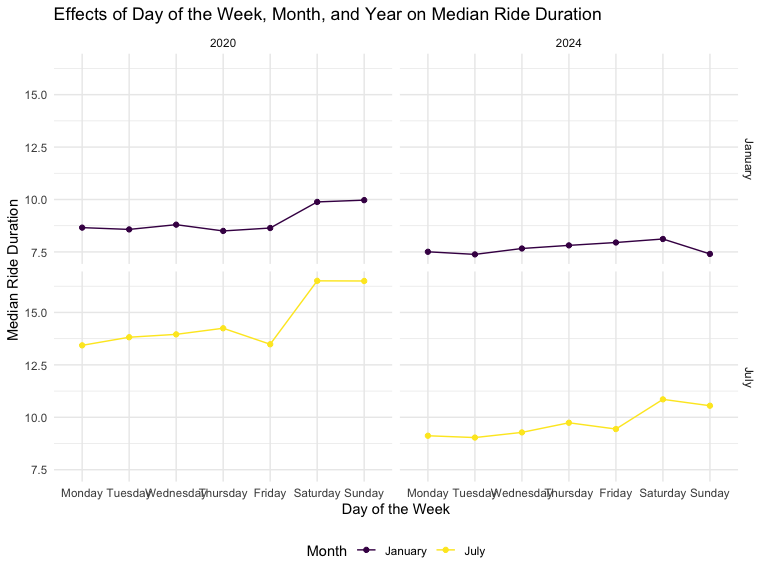
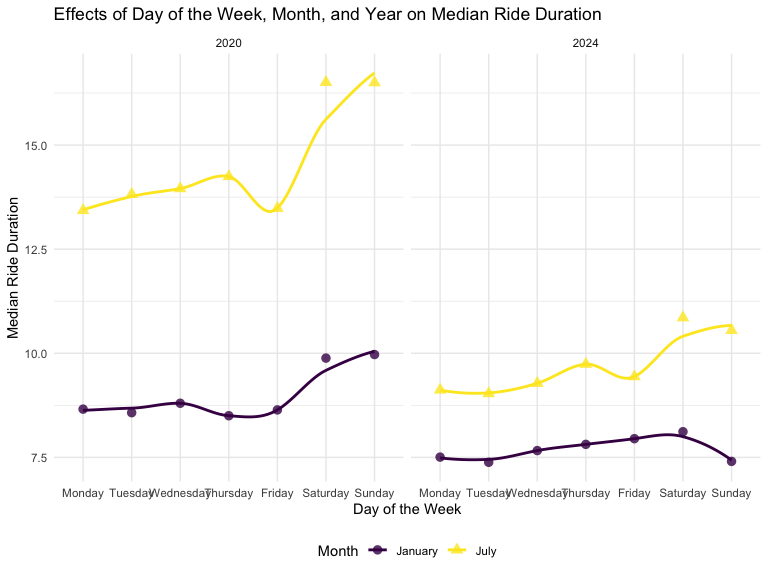
median duration plot

diff --git a/p8105_hw3_yl5505.md b/p8105_hw3_yl5505.md
@@ -464,20 +464,21 @@ bike_tidy |>
 
 ``` r
 bike_tidy |>
-  group_by(year, month, weekdays)|>
-  summarize(median_ride_duration = median(duration))|>
-  ggplot(aes(x=weekdays, y=median_ride_duration, color = month, group = month))+
-  geom_point()+geom_line()+
-  facet_grid(month~year)+
+  group_by(year, month, weekdays) |>
+  summarize(median_dur = median(duration, na.rm = TRUE), .groups = "drop") |>
+  ggplot(aes(x = weekdays, y = median_dur, color = month, shape = month)) +
+  geom_point(size = 3, alpha = 0.8) +  
+  geom_smooth(aes(group = month),method = "loess", se = FALSE, size = 1) + 
+  facet_wrap(~ year) + 
   labs(
     title = "Effects of Day of the Week, Month, and Year on Median Ride Duration",
     x = "Day of the Week",
-    y = "Median Ride Duration ",
-    color = "Month"
+    y = "Median Ride Duration",
+    color = "Month",
+    shape = "Month"
   )
 ```
 
-    ## `summarise()` has grouped output by 'year', 'month'. You can override using the
-    ## `.groups` argument.
+    ## `geom_smooth()` using formula = 'y ~ x'
 
 <img src="p8105_hw3_yl5505_files/figure-gfm/unnamed-chunk-19-1.png" width="90%" />
